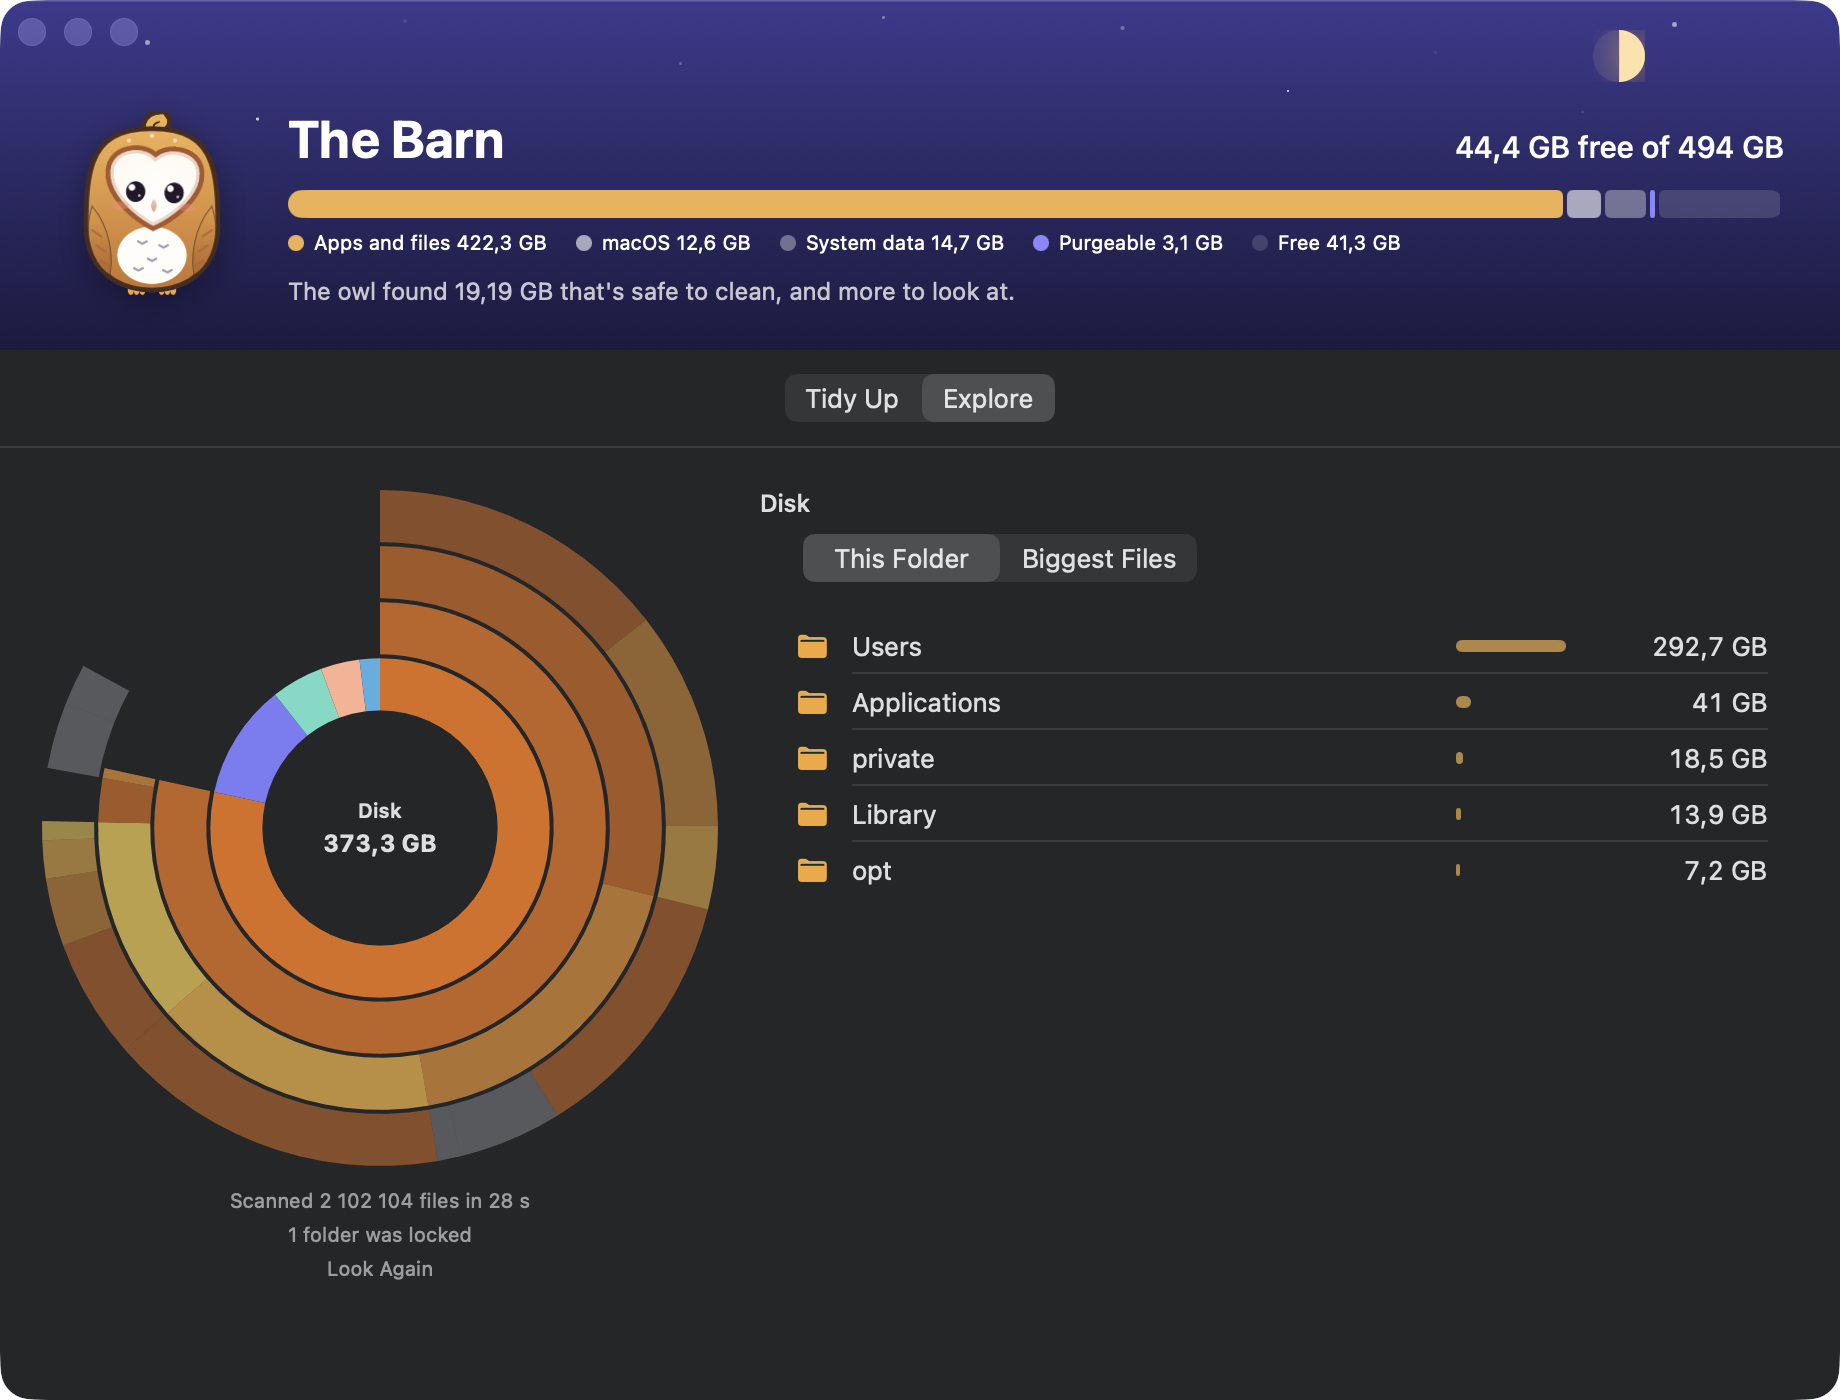
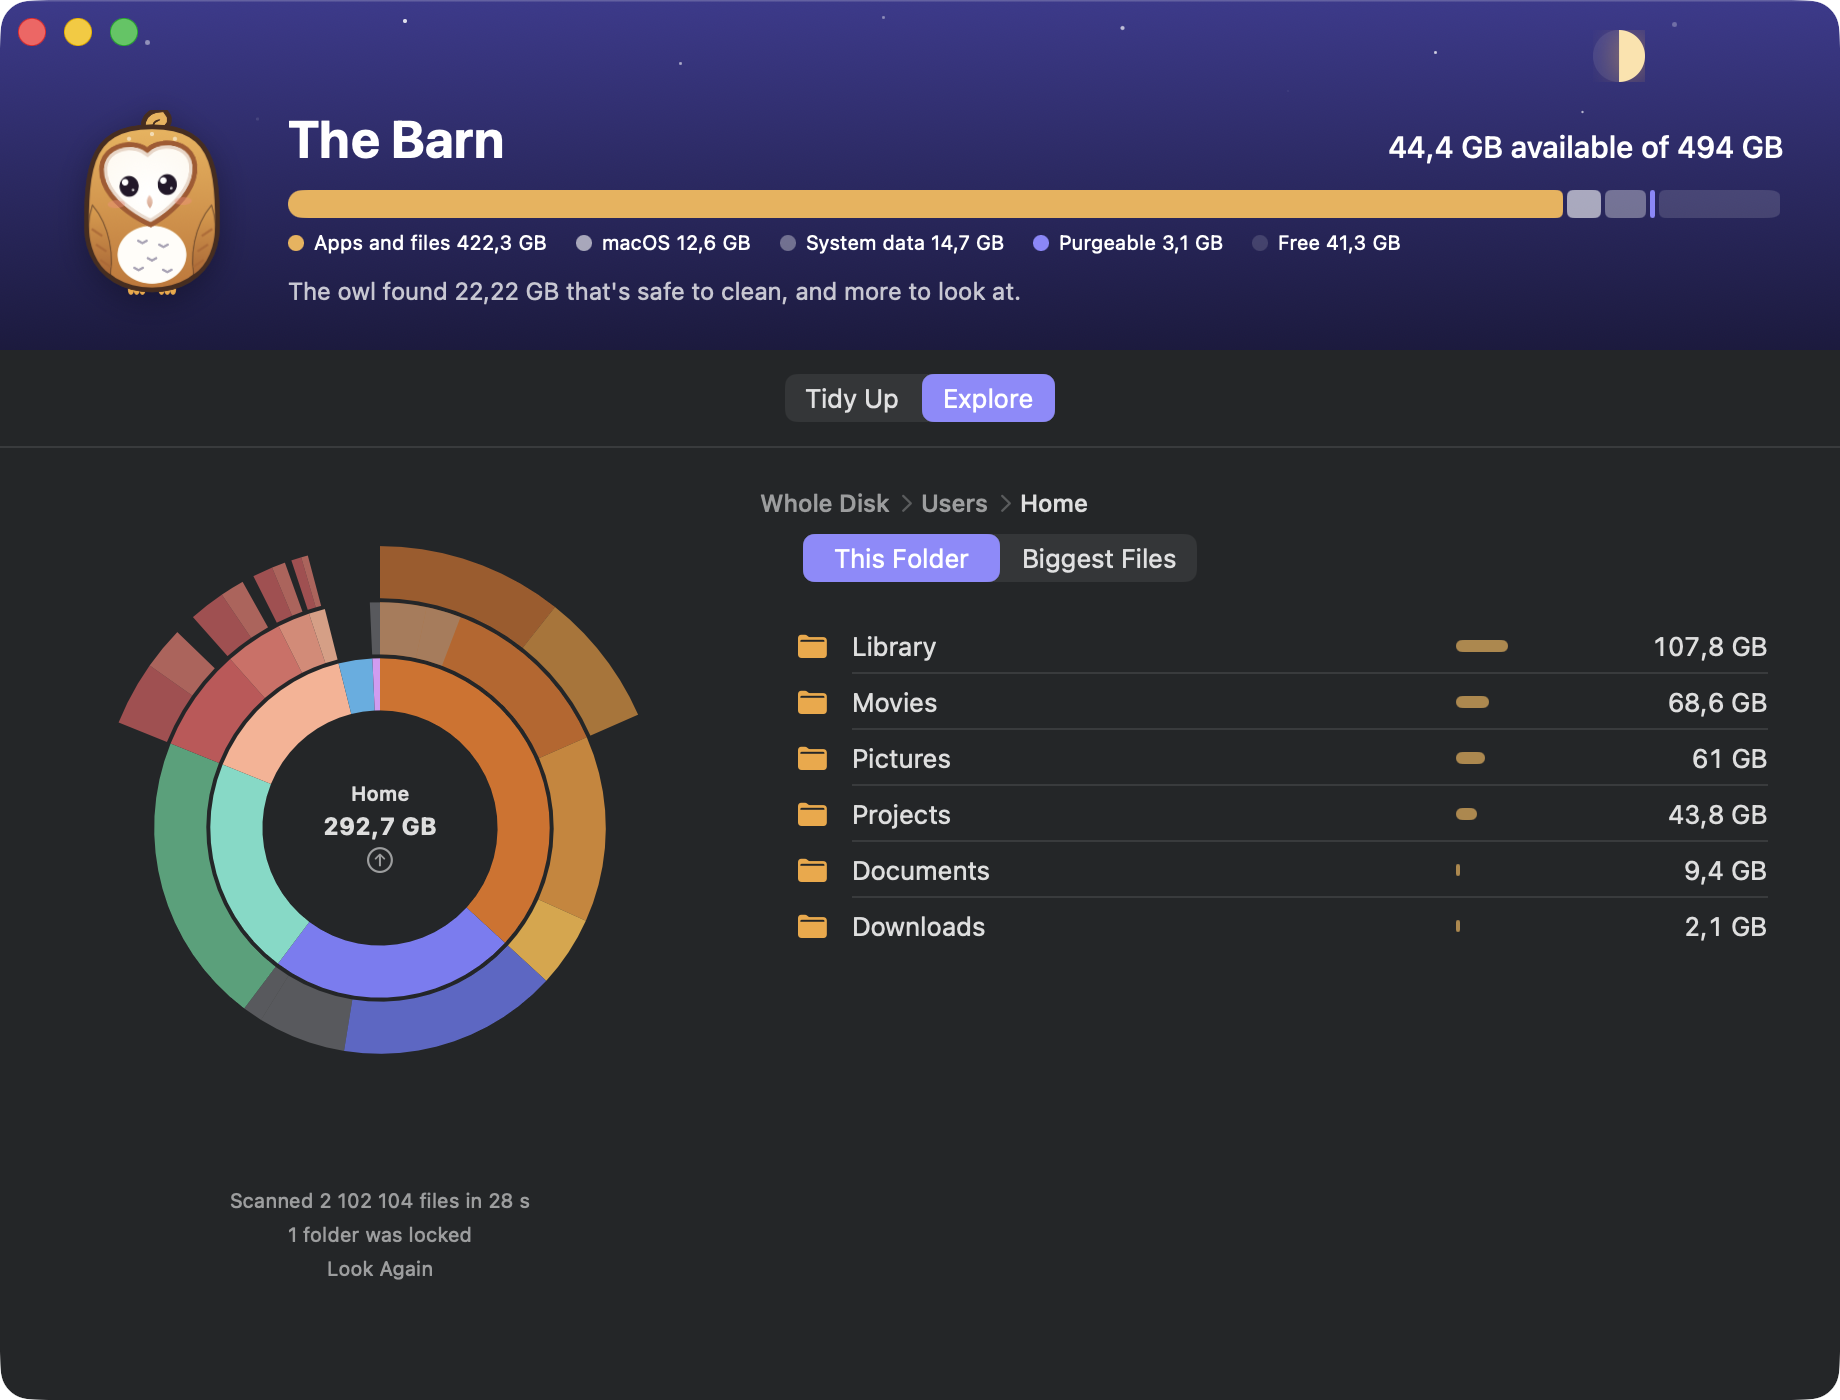
The Barn: verified live, search in pick lists, docs and screenshots
- Pick lists get a search field, and say how many are picked.
- Things blocked by a running app sort after what you can clean now,
  and section totals match what Free Up cleans.
- The ring map's centre says Home; the kind picker has a fixed width.
- Test runs no longer write to your cleanup log.
- README, user guide and changelog describe the safety tiers, the new
  clean-ups and how it stays safe; new screenshots from demo mode.

diff --git a/BarnOwl/Barn/BarnView.swift b/BarnOwl/Barn/BarnView.swift
@@ -186,7 +186,7 @@ private struct TidyUpView: View {
                     let rows = barn.suggestions.filter { $0.rule.safety == safety }
                     if !rows.isEmpty {
                         VStack(alignment: .leading, spacing: 8) {
-                            SectionHeading(safety: safety, total: rows.map(\.size).reduce(0, +))
+                            SectionHeading(safety: safety, total: rows.filter { $0.blockedBy == nil }.map(\.size).reduce(0, +))
                             VStack(spacing: 0) {
                                 ForEach(Array(rows.enumerated()), id: \.element.id) { position, suggestion in
                                     if position > 0 { Divider().padding(.leading, 58) }
@@ -418,14 +418,23 @@ private struct PickItemsSheet: View {
     let clean: ([String]) -> Void
     let cancel: () -> Void
     @State private var picked: Set<String> = []
+    @State private var search = ""
 
     private var total: Int64 { suggestion.items.filter { picked.contains($0.path) }.map(\.size).reduce(0, +) }
+
+    private var shown: [BarnModel.Item] {
+        search.isEmpty ? suggestion.items : suggestion.items.filter { $0.name.localizedCaseInsensitiveContains(search) }
+    }
 
     var body: some View {
         VStack(alignment: .leading, spacing: 12) {
             Text(suggestion.rule.title).font(.title2.bold())
             Text(suggestion.rule.detail).foregroundStyle(.secondary)
-            List(suggestion.items) { item in
+            if suggestion.items.count > 10 {
+                TextField("Search \(suggestion.items.count) items", text: $search)
+                    .textFieldStyle(.roundedBorder)
+            }
+            List(shown) { item in
                 Toggle(isOn: Binding(get: { picked.contains(item.path) },
                                      set: { if $0 { picked.insert(item.path) } else { picked.remove(item.path) } })) {
                     HStack {
@@ -443,8 +452,12 @@ private struct PickItemsSheet: View {
             }
             .frame(minHeight: 280)
             HStack {
-                Button(picked.count == suggestion.items.count ? "Select None" : "Select All") {
-                    picked = picked.count == suggestion.items.count ? [] : Set(suggestion.items.map(\.path))
+                let all = Set(shown.map(\.path))
+                Button(all.isSubset(of: picked) ? "Select None" : "Select All") {
+                    if all.isSubset(of: picked) { picked.subtract(all) } else { picked.formUnion(all) }
+                }
+                if !picked.isEmpty {
+                    Text("\(picked.count) picked").foregroundStyle(.secondary)
                 }
                 Spacer()
                 Button("Cancel", role: .cancel, action: cancel).keyboardShortcut(.cancelAction)
@@ -543,7 +556,9 @@ private struct ReportBanner: View {
             Button("Remove", role: .destructive, action: emptyTrashed)
             Button("Cancel", role: .cancel) {}
         } message: {
-            Text("Only the \(report.trashed.count == 1 ? "item" : "\(report.trashed.count) items") just moved there (\(Bytes.format(report.trashedSize))) are removed for good. The rest of your Trash stays. This can't be undone.")
+            Text(report.trashed.count == 1
+                 ? "Only what was just moved there (\(Bytes.format(report.trashedSize))) is removed for good. The rest of your Trash stays. This can't be undone."
+                 : "Only the \(report.trashed.count) items just moved there (\(Bytes.format(report.trashedSize))) are removed for good. The rest of your Trash stays. This can't be undone.")
         }
         .padding(14)
         .frame(maxWidth: 640)

diff --git a/BarnOwl/Barn/ExploreView.swift b/BarnOwl/Barn/ExploreView.swift
@@ -83,7 +83,7 @@ private struct ExploreResults: View {
         VStack(spacing: 0) {
             HStack(alignment: .top, spacing: 20) {
                 VStack(spacing: 10) {
-                    RingMap(scan: scan, focus: focus, hovered: $hovered) { index in
+                    RingMap(scan: scan, focus: focus, home: home, hovered: $hovered) { index in
                         if scan.nodes[Int(index)].isFolder, !scan.nodes[Int(index)].children.isEmpty {
                             withAnimation(.spring(duration: 0.4)) { focus = index }
                         } else {
@@ -109,7 +109,7 @@ private struct ExploreResults: View {
                             Picker("", selection: $kind) {
                                 ForEach(FileKind.allCases, id: \.self) { Text($0.rawValue).tag($0) }
                             }
-                            .labelsHidden().fixedSize()
+                            .labelsHidden().frame(width: 210)
                         }
                     }
                     list
@@ -371,6 +371,7 @@ private struct BasketBar: View {
 struct RingMap: View {
     let scan: DiskScan
     let focus: Int32
+    let home: Int32?
     @Binding var hovered: Int32?
     let open: (Int32) -> Void
     let goUp: () -> Void
@@ -392,10 +393,11 @@ struct RingMap: View {
     /// Worked out once per folder, not on every hover.
     private let slices: [Slice]
 
-    init(scan: DiskScan, focus: Int32, hovered: Binding<Int32?>, open: @escaping (Int32) -> Void,
+    init(scan: DiskScan, focus: Int32, home: Int32?, hovered: Binding<Int32?>, open: @escaping (Int32) -> Void,
          goUp: @escaping () -> Void) {
         self.scan = scan
         self.focus = focus
+        self.home = home
         _hovered = hovered
         self.open = open
         self.goUp = goUp
@@ -486,7 +488,7 @@ struct RingMap: View {
     private var centreLabel: some View {
         let shown = scan.nodes[Int(hovered ?? focus)]
         return VStack(spacing: 2) {
-            Text(hovered == nil && focus == 0 ? "Disk" : shown.name)
+            Text(hovered == nil && focus == 0 ? "Whole Disk" : hovered == nil && focus == home ? "Home" : shown.name)
                 .font(.caption.weight(.semibold)).lineLimit(2).multilineTextAlignment(.center)
             Text(Bytes.format(shown.size)).font(.callout.weight(.bold)).monospacedDigit()
             if hovered == nil && focus != 0 {

diff --git a/BarnOwl/Barn/BarnModel.swift b/BarnOwl/Barn/BarnModel.swift
@@ -121,7 +121,10 @@ final class BarnModel {
     }
 
     private static func ordered(_ suggestions: [Suggestion]) -> [Suggestion] {
-        suggestions.sorted { ($0.rule.safety, -$0.size) < ($1.rule.safety, -$1.size) }
+        // Safest first, then what you can clean now, then biggest.
+        suggestions.sorted {
+            ($0.rule.safety.rawValue, $0.blockedBy == nil ? 0 : 1, -$0.size) < ($1.rule.safety.rawValue, $1.blockedBy == nil ? 0 : 1, -$1.size)
+        }
     }
 
     /// How much one rule would free, or nil if it doesn't apply here.

diff --git a/BarnOwl/Barn/Cleanup.swift b/BarnOwl/Barn/Cleanup.swift
@@ -564,6 +564,8 @@ enum CleanupRunner {
     }
 
     static func log(_ line: String) {
+        // Test runs clean a stand-in home; they don't belong in your log.
+        guard ProcessInfo.processInfo.environment["XCTestConfigurationFilePath"] == nil else { return }
         let folder = logURL.deletingLastPathComponent()
         try? FileManager.default.createDirectory(at: folder, withIntermediateDirectories: true)
         let stamp = ISO8601DateFormatter().string(from: Date())

diff --git a/docs/user-guide.md b/docs/user-guide.md
@@ -279,36 +279,64 @@ when it needs room) and what's free. Finder counts purgeable space as free.
 
 ### Tidy up
 
-The owl looks in the places it knows: Xcode build files and caches, Homebrew,
-npm, pnpm, Yarn, pip, CocoaPods, Swift packages, Go and Cargo caches,
-browser caches, other apps' caches and logs, old installers in Downloads,
-and the Trash. Each card shows how much you'd get back and how safe it is:
+The owl looks in the places it knows and sorts what it finds by how safe it
+is. Each row says how much you'd get back and what happens when you clean it.
 
-- **Safe to clean:** rebuilt automatically when needed. **Free Up** cleans
-  all of these at once. Where a tool has its own clean-up command (`brew
-  cleanup`, `npm cache clean`, `pnpm store prune`, `pip cache purge`, `xcrun
-  simctl delete unavailable`), Barn Owl uses it.
-- **Pick what goes:** probably fine, but you choose. Most go to the Trash, so
-  **Undo** puts them back.
-- **Your call:** iPhone backups, Xcode archives, simulator devices and
-  Docker. Shown with advice, never cleaned by Barn Owl.
+- **Safe to clean:** browser caches, Xcode build files, simulator caches,
+  iPhone and iPad update files, and the caches of npm, pnpm, Yarn, pip,
+  CocoaPods, Swift packages, Go and Cargo. Apps and tools make them again
+  when they need them. **Free Up** cleans all of these at once, after showing
+  you the list. Where a tool has its own clean-up command (`npm cache clean`,
+  `pnpm store prune`, `pip cache purge`), Barn Owl uses it.
+- **Check first:** probably fine, but have a look. You pick what goes:
+  - macOS installers left in Applications after an upgrade;
+  - apps you haven't opened in six months (not Apple's; their settings stay);
+  - big, old downloads: 200 MB or more, arrived over three months ago;
+  - old installers (disk images and packages) in Downloads;
+  - other apps' caches and logs, and attachments Mail copied when you
+    opened them;
+  - Device Support files and Gradle caches, removed for good after you
+    confirm;
+  - Homebrew's downloads and old versions (`brew cleanup --prune=all`) and
+    simulators for iOS versions you no longer have (`xcrun simctl delete
+    unavailable`), each after you confirm.
 
-A cache is skipped while its app is running ("Quit Xcode first"). Every
-removal is checked twice against a list of folders Barn Owl may touch, and
-anything it isn't sure about is kept. What it did is written to
-`~/Library/Logs/Barn Owl/cleanup.log`.
+  Most of these go to the Trash, so **Undo** puts them back, and **Empty from
+  Trash** removes just those, leaving the rest of your Trash alone. A long
+  list has a search field.
+- **Only you know:** iPhone backups, the Photos library, Xcode archives,
+  simulator devices and Docker. Shown with advice, never cleaned by Barn Owl.
 
-Things moved to the Trash still take space until you empty the Trash.
+How it stays safe:
+
+- Each clean-up can only touch its own folders, checked when it's offered and
+  again right before anything is removed, with every link followed. Things
+  you pick must be directly inside the folder and still match what was offered
+  (the right kind, old enough).
+- Never Apple's own caches, password managers', VPNs' or security tools'.
+- Nothing is cleaned while its app is open ("Quit Xcode first") or while a
+  build or the tool itself is running.
+- Anything that can't be undone asks first and says what goes.
+- Everything it does is written to `~/Library/Logs/Barn Owl/cleanup.log`.
+
+Things moved to the Trash still take space until they're gone from the Trash.
 
 ### Explore
 
 **Look Through the Disk** scans everything, usually in under a minute, and
-draws a ring map: the centre is the folder you're in, each ring a level
-deeper, each slice as wide as its share. Hover to see what it is, click a
-folder to go in, click the centre to go back. Beside it, the folder's
-contents biggest first, or the **Biggest Files** anywhere. Press Space for
-Quick Look, or right-click to show it in Finder or put it in the **basket**.
-**Move to Trash** sends everything in the basket to the Trash.
+draws a ring map, starting at your home folder: the centre is the folder
+you're in, each ring a level deeper, each slice as wide as its share. Hover
+to see what it is, click a folder to go in, click the centre (or press ←) to
+go back, and **Whole Disk** in the path shows everything. Beside it, the
+folder's contents biggest first, with a word on what system folders are, or
+the **Biggest Files** anywhere, narrowed by kind (videos, disk images and
+archives, music, pictures, documents).
+
+Press Space for Quick Look, → to open a folder, or Delete to put it in the
+**basket**; right-click to show it in Finder or copy its path. **Move to
+Trash…** lists what's in the basket and asks first; anything that changed
+since the scan is kept. The basket never takes anything from iCloud Drive,
+cloud storage, Mail, Messages, app data or the system.
 
 Sizes are what files really take on disk. Hard links count once, iCloud
 files that aren't downloaded count as nothing (and are never downloaded),

diff --git a/README.md b/README.md
@@ -131,22 +131,29 @@ and press Return to open it. You can also type a command:
 
 ## The Barn: free up disk space
 
-<img src="docs/images/barn-tidy.png" alt="The Barn: a storage bar and cards for Xcode build files, Homebrew, simulator caches and more, with a button to free up 19 GB" width="760">
+<img src="docs/images/barn-tidy.png" alt="The Barn: a storage bar, a button to free up 22 GB, and what's safe to clean, listed biggest first" width="760">
 
 Click the disk row in the quick panel, or search for "disk", and the owl
 shows you how your disk is used and what it can safely clean:
 
-- **Tidy up:** Xcode build files, simulator caches, Homebrew, npm, pnpm, pip
-  and other caches, browser caches, old installers in Downloads and the
-  Trash. Each card says how safe it is and how much you'll get back. Clean
-  everything safe in one click, or pick what goes. Barn Owl uses each tool's
-  own clean-up command where there is one, and moves anything you might want
-  back to the Trash, with undo.
-- **Yours to decide:** iPhone backups, Xcode archives, simulators and Docker
-  are shown but never cleaned for you.
-- **Explore:** a map of the whole disk, about three million files in half a
-  minute, as rings to click through. Find the biggest files, preview them
-  with Quick Look, and drop what you don't need in a basket for the Trash.
+- **Tidy up**, sorted by how safe it is:
+  - **Safe to clean:** browser and app caches, Xcode build files, iPhone
+    update files, npm, pip and other tool caches. Free them all in one click.
+  - **Check first:** macOS installers left behind, apps you haven't opened
+    in six months, big old downloads, other apps' caches and logs, Homebrew's
+    old versions. You pick what goes, it goes to the Trash, and Undo puts it
+    back.
+  - **Only you know:** iPhone backups, the Photos library, Xcode archives,
+    Docker. Shown with advice, never cleaned for you.
+- **Safe by design:** each clean-up can only touch its own folders, links
+  are followed and checked, nothing is cleaned while its app or a build is
+  running, and anything that can't be undone asks first. Every action is
+  logged.
+- **Explore:** a map of your disk, about three million files in half a
+  minute, as rings to click through. It starts at your home folder, explains
+  the system folders, finds the biggest files by kind, previews with Quick
+  Look, and keeps a basket of what you decide can go. It won't take anything
+  from iCloud Drive or where apps keep your data.
 - **Keeps an eye out:** a gentle warning when the disk is nearly full, and,
   if you like, a weekly look for things to tidy. It never cleans by itself.
 

diff --git a/CHANGELOG.md b/CHANGELOG.md
@@ -6,11 +6,14 @@ before 1.0, a minor version can change behaviour.
 ## Unreleased
 
 - **The Barn**, for disk space: a storage bar that adds up to the whole
-  disk, safe one-click clean-up of caches and build files (using each
-  tool's own command where there is one), picks for everything else with
-  undo, and Explore, a ring map of the whole disk with the biggest files,
-  Quick Look and a basket for the Trash. It warns when the disk is nearly
-  full and can check weekly. It never cleans by itself.
+  disk, and Tidy Up, sorted by how safe things are. Safe caches and build
+  files go in one click; macOS installers, apps you haven't opened in six
+  months, big old downloads and app caches are yours to pick, go to the
+  Trash with Undo, and can be emptied from it on their own. Each clean-up is
+  locked to its own folders, waits while its app or a build is running, and
+  asks before anything that can't be undone. Explore draws a ring map of the
+  disk with the biggest files by kind, Quick Look and a basket for the
+  Trash. It warns when the disk is nearly full, and never cleans by itself.
 - Barn Owl no longer uses CPU while idle: closed panels are torn down and
   hidden owls stop.
 
